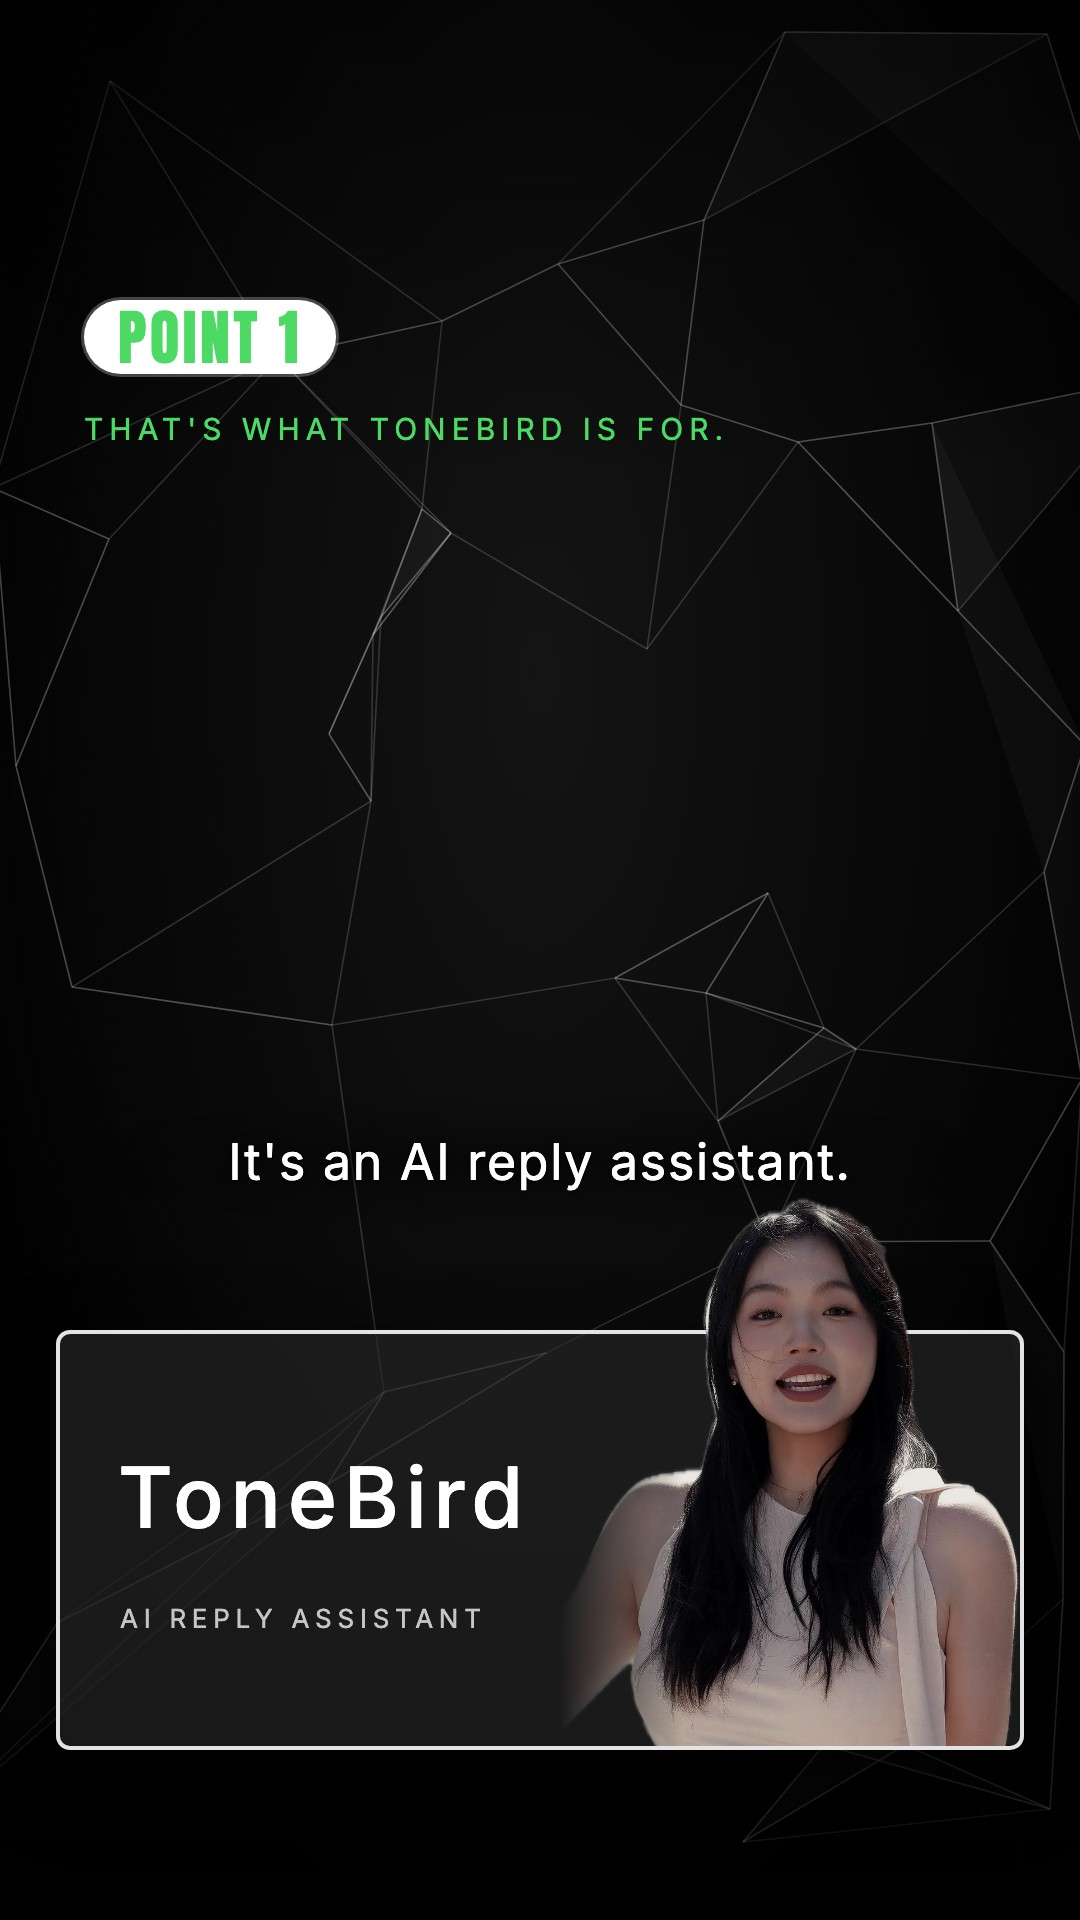
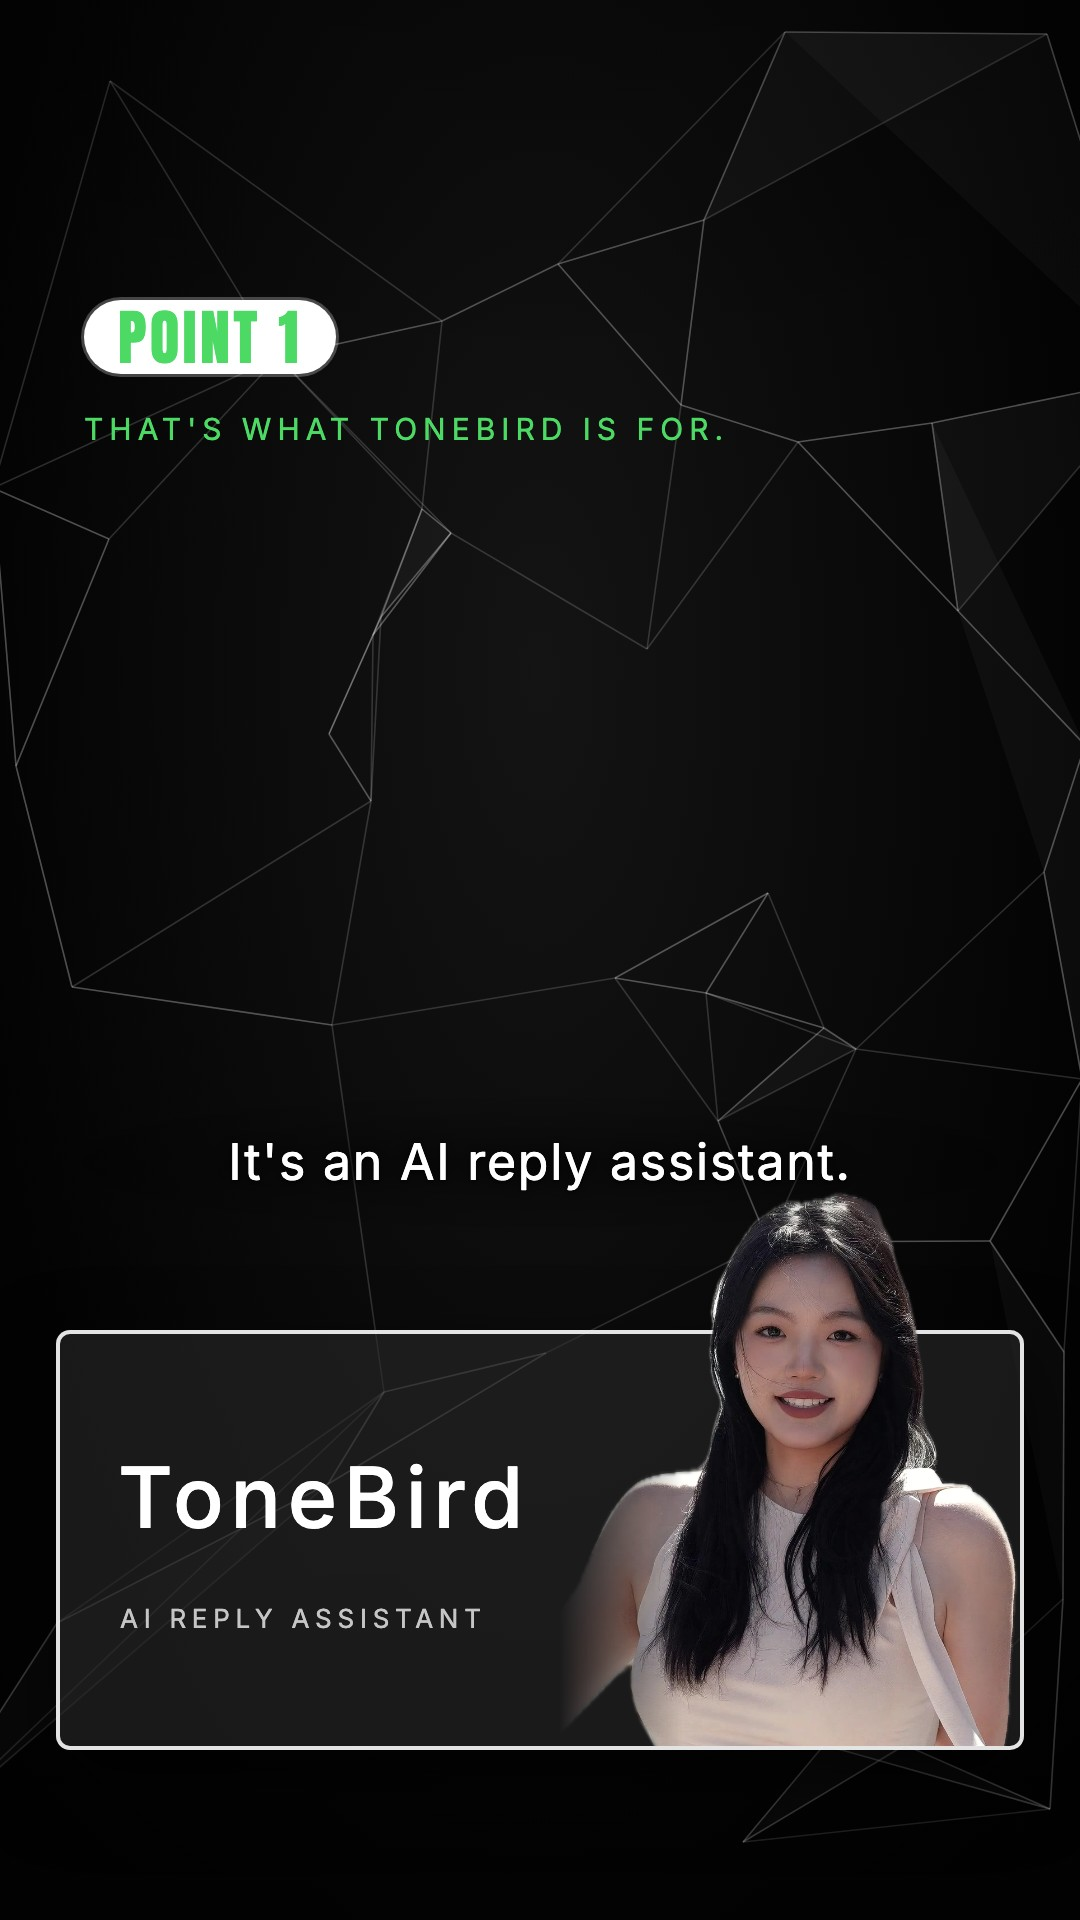
白菜暗调风：去掉压暗，口播画面保持自然亮度（老板：太暗显阴森）

Changed region(s): [[0.5806, 0.625, 0.9472, 0.9062]]

diff --git a/library/packs/baicai/pack.css b/library/packs/baicai/pack.css
@@ -1,14 +1,14 @@
 /* Bai Cai Dark (baicai) — grade + caption skin + helpers. Measured at 1080x1920 from 剪辑师白菜「告别廉价口播」. */
 
-/* ---- grade: the reference is a dim bookshelf room. Pull any footage toward it: darker, a touch warmer,
-   less saturated, crushed sky, plus a vignette that sits between the footage and the cutout/cards. ---- */
+/* ---- grade: premium, not gloomy. Keep the footage's own brightness; only a touch warmer, calmer colour and a
+   light edge vignette. Darkness belongs to the black-backdrop moves (doc cards, point card, end card), never the face shots. ---- */
 #stage.pack-baicai { background: #000; }
-#stage.pack-baicai #baseImg { filter: brightness(.74) contrast(1.14) saturate(.72) sepia(.10); }
+#stage.pack-baicai #baseImg { filter: brightness(.98) contrast(1.06) saturate(.86) sepia(.06); }
 #stage.pack-baicai #back::before {
   content: ""; position: absolute; inset: 0; pointer-events: none;
   background:
-    linear-gradient(180deg, rgba(0, 0, 0, .42) 0%, rgba(0, 0, 0, 0) 26%, rgba(0, 0, 0, 0) 62%, rgba(0, 0, 0, .38) 100%),
-    radial-gradient(ellipse 85% 70% at 50% 40%, rgba(0, 0, 0, 0) 45%, rgba(0, 0, 0, .55) 100%);
+    linear-gradient(180deg, rgba(0, 0, 0, .16) 0%, rgba(0, 0, 0, 0) 22%, rgba(0, 0, 0, 0) 70%, rgba(0, 0, 0, .18) 100%),
+    radial-gradient(ellipse 85% 70% at 50% 40%, rgba(0, 0, 0, 0) 55%, rgba(0, 0, 0, .22) 100%);
 }
 /* (::before comes first in #back, so the templates' own #back children paint above it; #person stays above #back) */
 

diff --git a/library/packs/baicai/effects/baicai_doc_cards/template.js b/library/packs/baicai/effects/baicai_doc_cards/template.js
@@ -33,7 +33,7 @@ TEMPLATES.baicai_doc_cards = {
     // round face window, thin white rim (in front of the cards like the reference)
     if (P.pip !== false) {
       this.pip = el('div', 'position:absolute;left:70px;top:210px;width:320px;height:320px;border-radius:50%;overflow:hidden;border:5px solid rgba(255,255,255,.9);box-shadow:0 14px 40px rgba(0,0,0,.6)');
-      this.pipImg = el('img', 'position:absolute;width:1080px;height:1920px;transform-origin:0 0;filter:brightness(.8) contrast(1.12) saturate(.75) sepia(.1)');
+      this.pipImg = el('img', 'position:absolute;width:1080px;height:1920px;transform-origin:0 0;filter:brightness(.98) contrast(1.06) saturate(.86) sepia(.06)');
       this.pip.appendChild(this.pipImg);
       ctx.L.front.appendChild(this.pip);
     }

diff --git a/library/packs/baicai/effects/baicai_end_frame/template.js b/library/packs/baicai/effects/baicai_end_frame/template.js
@@ -49,7 +49,7 @@ TEMPLATES.baicai_end_frame = {
     const lft = loc(lerp(0, F.l + 4, k), tx), rgt = 1080 - loc(lerp(1080, F.r - 4, k), tx);
     ctx.base.style.clipPath = `inset(${Math.max(0, top)}px ${Math.max(0, rgt)}px ${Math.max(0, bot)}px ${Math.max(0, lft)}px round ${14 / s}px)`;
     ctx.person.style.clipPath = `inset(0 ${Math.max(0, rgt)}px ${Math.max(0, bot)}px ${Math.max(0, lft)}px)`;
-    ctx.personCv.style.filter = 'brightness(.8) contrast(1.12) saturate(.75) sepia(.1)';
+    ctx.personCv.style.filter = 'brightness(.98) contrast(1.06) saturate(.86) sepia(.06)';
     ctx.person.style.opacity = p > .4 ? 1 : 0;
     this.frame_.style.opacity = clamp((p - .5) * 3);
     const q = ease.out(enter(t, this.tTitle, .5));

diff --git a/library/packs/baicai/effects/baicai_point_card/template.js b/library/packs/baicai/effects/baicai_point_card/template.js
@@ -64,7 +64,7 @@ TEMPLATES.baicai_point_card = {
     // body cut off at the box bottom (local coords of the scaled layer)
     const cut = Math.max(0, 1920 - (this.B.b - 4 - ty) / s);
     ctx.person.style.clipPath = `inset(0 0 ${p > .5 ? cut : 0}px 0)`;
-    ctx.personCv.style.filter = 'brightness(.86) contrast(1.1) saturate(.78) sepia(.08)';
+    ctx.personCv.style.filter = 'brightness(.98) contrast(1.06) saturate(.86) sepia(.06)';
     ctx.L.bg.style.opacity = clamp(p * 1.8);
     const b = ease.out(enter(t, .3, .45));
     this.box.style.opacity = Math.min(b, out);

diff --git a/library/packs/baicai/STYLE.md b/library/packs/baicai/STYLE.md
@@ -1,7 +1,7 @@
 # Bai Cai Dark (`baicai`) — style bible
 
 ## 1. Essence
-A moody, premium editor's cut. The footage is graded dark and slightly warm; subtitles are thin white type on the
+A calm, premium editor's cut. The footage keeps its own brightness, only a touch warmer and calmer (premium, never gloomy — the boss rejected a dark grade as 阴森); subtitles are thin white type on the
 chest with the key phrase bigger and green; the "moves" take the speaker out of the frame onto black: shrunk into a
 B&W box, cut out into a framed card, parked in a round window while white documents fly in, framed under a heavy serif
 title at the end. One accent: a soft neon green (#4cd964). Type: tall condensed titles (Anton), clean thin sans for
@@ -13,8 +13,9 @@ caption, no pills); not `nischa` (light, flat, orange diagram panels) — this p
 makes its point with framing moves, not diagrams.
 
 ## 2. Layers & framing
-- Footage: always graded (pack.css): `brightness .74 contrast 1.14 saturate .72 sepia .10` on `#baseImg`, plus a
-  vignette (top 42 % / bottom 38 % black fade + radial edge 55 %) painted in `#back::before`, i.e. under any cutout.
+- Footage: lightly graded (pack.css): `brightness .98 contrast 1.06 saturate .86 sepia .06` on `#baseImg`, plus a
+  light vignette (top 16 % / bottom 18 % fade + radial edge 22 %) in `#back::before`. Never darken face shots to fake
+  the reference's dim room; the black only appears in the backdrop moves.
 - Face shots: full frame. Hook: push to 1.55× and park the face in the left third (`baicai_side_title`).
 - Black backdrops: pure black (`baicai_mono_note`, `baicai_doc_cards` — footage blurred to 22 % as texture),
   black + low-poly white line net 16 % (`baicai_point_card`), warm black #3a332e→#161412 (`baicai_end_frame`).
